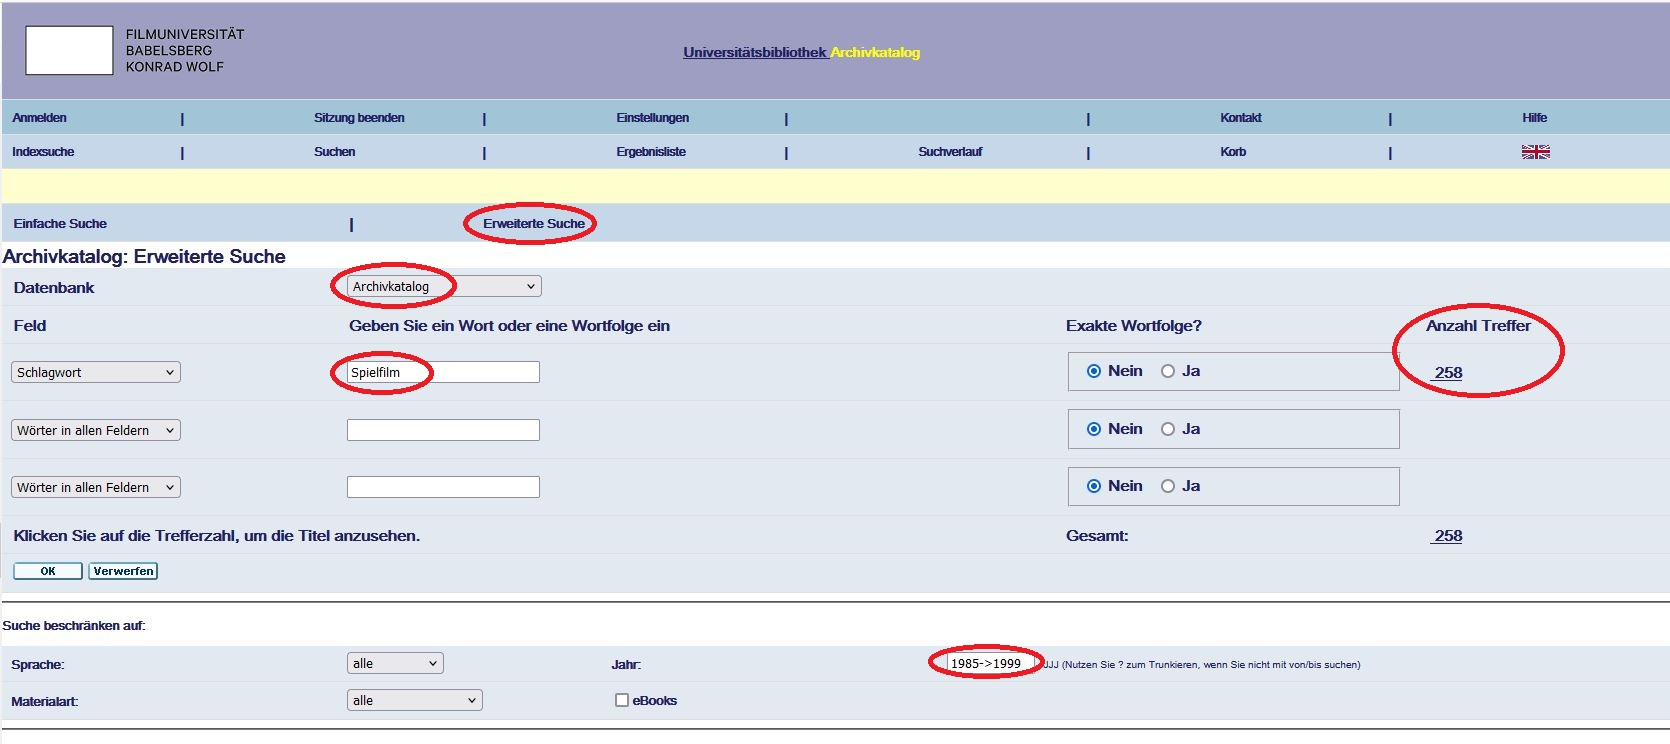
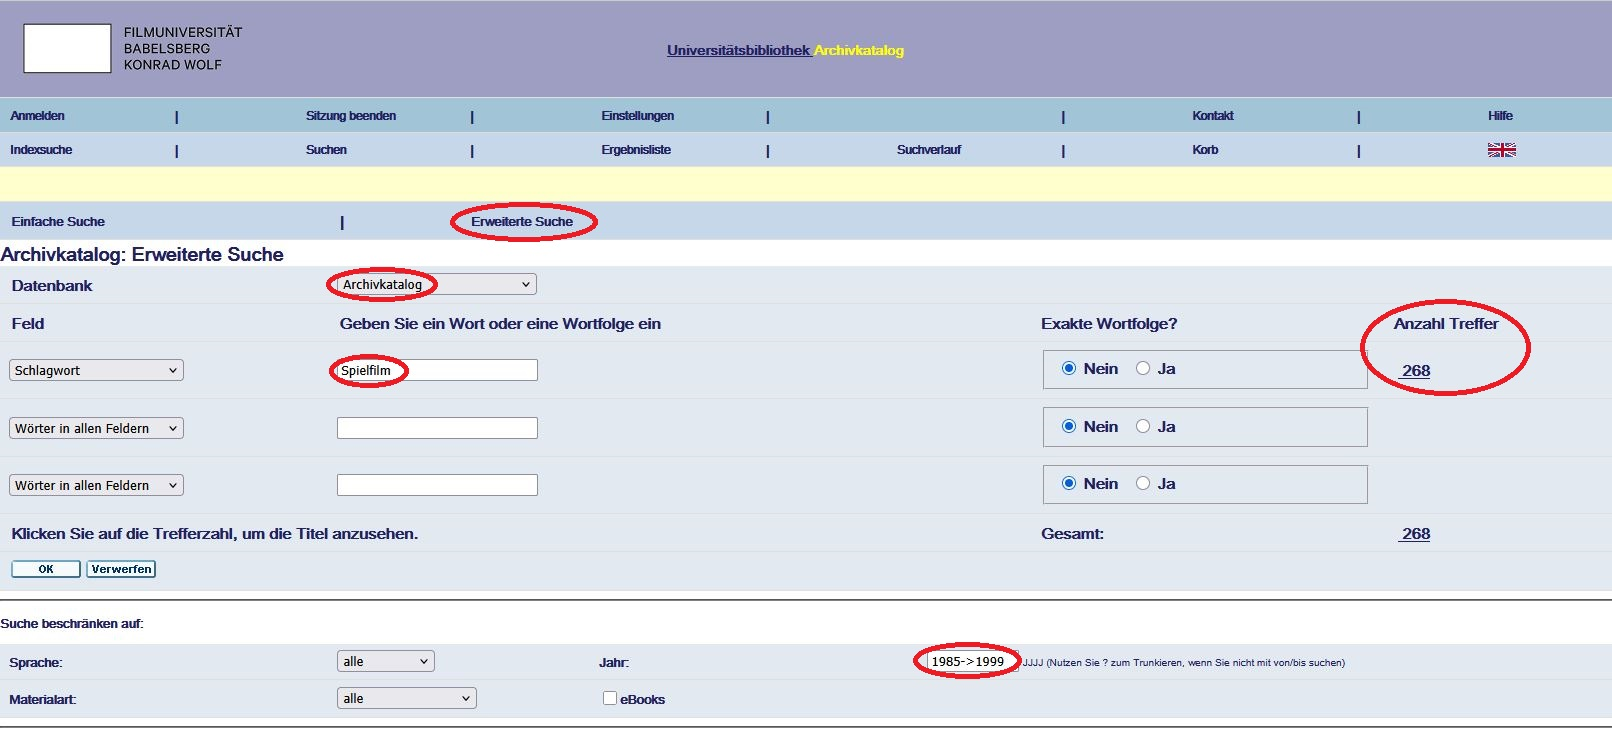
update recherche/material.md

diff --git a/recherche/material.md b/recherche/material.md
@@ -1,16 +1,18 @@
 # Materialrecherche
 Das folgende Kapitel beschäftigt sich mit der Erarbeitung und Konkretisierung der Fragestellung und mit der Materialrecherche zu unserer Fallstudie. Für Projekte in den Digital Humanities führt Johanna Drucker {cite}`a-Drucker_2021` drei Komponenten auf: Projekte beginnen mit **Materialien** (_materials_), wie z.B. Bildmaterial, Texte, Landkarten oder Mediendateien, gefolgt von der **Verarbeitung** (_processing_), etwa in Form von Data Mininig oder statistischen Analysen, und schließlich werden die Ergebnisse in Form einer **Präsentation** (_presentation_) vermittelt. Dementsprechend steht am Beginn unserer Fallstudie zunächst die Recherche und eine erste Beurteilung des vorhandenen Materials.
 
-Die Fallstudie widmet sich der filmhistorischen Fragestellung: **Welche Veränderungen sind in den studentischen Filmen der Filmuniversität Babelsberg KONRAD WOLF – bzw. der Hochschule für Film und Fernsehen (HFF) "Konrad Wolf" Potsdam, wie sie bis 2014 hieß – zur Wendezeit erkennbar?** Wir gehen davon aus, dass sich die gesellschaftlichen, politischen und ökonomischen Umwälzungen und Brüche zur Zeit der Wende und der Wiedervereinigung auch im studentischen Filmschaffen der Babelsberger Filmhochschule niederschlagen. Als Untersuchungszeitraum werden die **Jahre von 1985 bis 1999** festgesetzt. Die Festlegung des Zeitraums rund um die Wendejahre 1989/90 haben wir so gewählt, dass mögliche Veränderungen im Filmschaffen innerhalb dieser Zeitspanne erkennbar sein sollten. Historische Umbrüche finden in längeren Perioden statt und Filmprojekte benötigen häufig längere Planungs- und Umsetzungsphasen. Prozesse der Umgestaltung in der akademischen Lehre und Forschung, die sich in konkreten Filmen widerspiegeln können, benötigen Zeit, um in Gang zu kommen. Diesen Faktoren wollten wir mit dem gewählten Zeitraum Rechnung tragen.
+Die Fallstudie widmet sich der filmhistorischen Fragestellung: **Welche Veränderungen sind in den studentischen Filmen der Filmuniversität Babelsberg KONRAD WOLF – bzw. der Hochschule für Film und Fernsehen (HFF) "Konrad Wolf" Potsdam, wie sie bis 2014 hieß – zur Wendezeit erkennbar?** Wir gehen davon aus, dass sich die gesellschaftlichen, politischen und ökonomischen Umwälzungen und Brüche zur Zeit der Wende und der Wiedervereinigung auch im studentischen Filmschaffen der Babelsberger Filmhochschule niederschlagen. Dies kann sich in ganz unterschiedlichen Faktoren äußern, wie z.B. dem Auftreten neuer Themen und Motive, dem Einsatz bestimmter stilistischer Mittel oder einer veränderten Anzahl von in einem Jahr entstandenen Filmen und Filmgattungen, also Dokumentar- und Spielfilmen.
+
+Als Untersuchungszeitraum werden die **Jahre von 1985 bis 1999** festgesetzt. Die Festlegung des Zeitraums rund um die Wendejahre 1989/90 haben wir so gewählt, dass mögliche Veränderungen im Filmschaffen innerhalb dieser Zeitspanne erkennbar sein sollten. Historische Umbrüche finden in längeren Perioden statt und Filmprojekte benötigen häufig längere Planungs- und Umsetzungsphasen. Prozesse der Umgestaltung in der akademischen Lehre und Forschung, die sich in konkreten Filmen widerspiegeln können, benötigen Zeit, um in Gang zu kommen. Diesen Faktoren wollten wir mit dem gewählten Zeitraum Rechnung tragen.
 
 Im ersten Schritt ist zu recherchieren, welches Material zur Beantwortung der Fragestellung zur Verfügung steht. Es soll ein erster Überblick erarbeitet werden, welche und wie viele Filme für den Zeitraum von 1985 bis 1999 im Filmarchiv der Filmuniversität vorhanden sind. An der Filmuniversität sind die archivierten Filme nicht in einer eigenen Datenbank, sondern im Bibliothekskatalog (OPAC) der Filmuniversität verzeichnet und dort entsprechend gekennzeichnet. Ein erster Eindruck bezüglich des vorhandenen Materials kann sich somit nur durch eine Recherche im <a href="http://server8.bibl.filmuniversitaet.de/" class="external-link" target="_blank">OPAC der Universitätsbibliothek</a> ergeben. _OPAC_ steht für _Online Public Access Catalog_ und ist ein viel verwendetes elektronisches Bibliothekssystem, das Nutzer:innen ermöglicht, online auf den Katalog einer Bibliothek zuzugreifen.
 
 ## Recherche im Bibliothekskatalog
-Im folgenden Abschnitt stellen wir kurz Schritte dar, die bei der OPAC-Recherche zur Fragestellung unserer Fallstudie durchlaufen werden können. Es gibt dabei keinen allgemeingültigen Weg, vielmehr kann die Recherche auf vielfältige Weise angegangen werden und wir zeigen hier eine mögliche Herangehensweise exemplarisch auf.
+Im folgenden Abschnitt stellen wir kurz Schritte dar, die bei der OPAC-Recherche zur Fragestellung unserer Fallstudie durchlaufen werden können. Es gibt dabei keinen allgemeingültigen Weg, vielmehr kann die Recherche auf vielfältige Weise angegangen werden und wir zeigen hier eine mögliche Herangehensweise exemplarisch auf. Der Fokus liegt dabei darauf, wie sich eine solche Recherche von einer "klassischen" Literaturrecherche nach bestimmten Publikationen in einem Bibliothekskatalog unterscheidet und welche Besonderheiten in diesem Rahmen auftreten können. Auch wenn hier die Suche anhand des OPACs der Filmuniversität dargestellt wird, können einzelne Rechercheschritte auch auf andere Fragestellungen und Archivkataloge übertragen werden.
 
 Bei der Erfassung der Daten werden vom verantwortlichen Bibliothekspersonal verschiedene Informationen zu den studentischen Filmen in den OPAC eingegeben, z.B. der Filmtitel, das Entstehungsjahr, die beteiligten Personen, die Dauer in Minuten, kurze Inhaltsbeschreibungen oder Schlagworte und Stichworte zu den Filmen. Die Eingabe dieser Daten erfolgt dabei nach bestimmten Regeln in vorhandene Eingabefelder. Bei der Recherche und der Auswertung der Rechercheergebnisse ist es wichtig zu beachten, das nicht immer alle Informationen zu einem Film in den OPAC eingegeben werden müssen, also z.B. Angaben zur Gattung, Schlagwort oder Länge fehlen können. Auf den Erfassungsprozess gehen wir im Abschnitt zur [Datenquelle](/bereinigung/datenquelle) noch genauer ein. Für unsere Fragestellung kann die Suche nach mehreren dieser Informationen interessant sein, u.a. die Entstehungsjahre, Schlagworte oder Stichworte. 
 
-Wie kann im <a href="http://server8.bibl.filmuniversitaet.de/" class="external-link" target="_blank">Bibliothekskatalog der Filmuniversität</a> nun gezielt nach Filmen aus dem studentischen Filmarchiv gesucht werden? Auf der Startseite des Online-Katalogs (OPAC) wird ersichtlich, dass mehrere Datenbanken für die Suche zur Verfügung stehen, darunter auch das _Filmarchiv_ ({numref}`opac_datenbank_filmarchiv`). Standardmäßig sind alle Datenbanken aktiviert und werden bei einer Suchanfrage berücksichtigt. Indem nur die Filmarchiv-Datenbank ausgewählt wird, kann ausschließlich im Bestand des Filmarchivs der Filmuniversität gesucht werden.
+Wie kann im <a href="http://server8.bibl.filmuniversitaet.de/" class="external-link" target="_blank">Bibliothekskatalog der Filmuniversität</a> nun gezielt nach Filmen bzw. der Anzahl von Filmen oder Gattungen während eines bestimmten Zeitraums im studentischen Filmarchiv gesucht werden? Auf der Startseite des Online-Katalogs (OPAC) wird ersichtlich, dass mehrere Datenbanken für die Suche zur Verfügung stehen, darunter auch das _Filmarchiv_ ({numref}`opac_datenbank_filmarchiv`). Standardmäßig sind alle Datenbanken aktiviert und werden bei einer Suchanfrage berücksichtigt. Indem nur die Filmarchiv-Datenbank ausgewählt wird, kann ausschließlich im Bestand des Filmarchivs der Filmuniversität gesucht werden.
 
 ```{figure} ../assets/recherche/OPAC_Datenbank_Filmarchiv.jpg
 ---
@@ -69,7 +71,7 @@ alt: Darstellung einer Trefferliste nach einer Suchanfrage.
 Trefferliste
 ```
 
-Diese erste, oberflächliche Recherche hat mit 1366 Treffern gezeigt, dass im Filmarchiv für den zu untersuchenden Zeitraum genug Material an Filmen vorhanden ist, um der angedachten Fragestellung nachzugehen.
+Diese erste, oberflächliche Recherche hat mit 1366 Treffern gezeigt, dass im Filmarchiv für den zu untersuchenden Zeitraum ausreichend Material an Filmen vorhanden ist, um der angedachten Fragestellung nachzugehen. Die Anzahl der verzeichneten Filme ist groß genug, um deren [Metadaten](../recherche/metadaten.md) bzw. filmografischen Angaben sinnvoll statistisch auf der Grundlage unserer Fragestellung auswerten zu können. Einzelne Filme oder Gruppen von Filmen stehen zudem potentiell für konkrete Filmanalysen zur Verfügung, z.B. hinsichtlich des Einsatzes verschiedener stilistischer Mittel.
 
 Als nächster Schritt erfolgt eine detailliertere Abfrage des Archivbestands, um sich einen besseren Überblick zu verschaffen. Die Verfeinerung der Suche erfolgt durch die Eingabe von Worten in das mittlere Suchfeld auf der Seite für die erweiterte Suche. Als Vorgabe ist dabei die Suche nach _Wörter in allen Feldern_ eingestellt. Durch ein Dropdown-Menü ist es möglich, die Suchanfrage weiter zu spezifizieren. So kann etwa nur in den Titeln, nach Personen, nach Schlagworten oder Stichworten gesucht werden (siehe {numref}`opac_suche_in_allen_Feldern`).
 
@@ -107,7 +109,7 @@ alt: Darstellung der Anzeige Suche nach Schlagwort Dokumentarfilm/B. Anzahl der 
 Anzeige der Suche nach Schlagwort "Dokumentarfilm/B"
 ```
 
-Aus den Suchergebnissen wird ersichtlich, dass für den Untersuchungszeitraum ausreichend gattungsbezogen verschlagwortete Filme im Katalog des Archivs der Filmuniversität vorhanden sind.
+Aus den Suchergebnissen wird ersichtlich, dass für den Untersuchungszeitraum eine ausreichend große Anzahl gattungsbezogen verschlagwortete Filme im Katalog des Archivs der Filmuniversität vorhanden ist, die sowohl eine sinnvolle Auswertung der filmografischen Angaben als auch die eingehende Analyse einzelner exemplarischer Filme ermöglicht.
 
 ```{admonition} Achtung
 :class: caution
@@ -128,7 +130,7 @@ Ein mögliches Vorgehen folgt diesen Schritten:
 * Wählen Sie aus dem Dropdown-Menü "Wörter in allen Feldern" den Punkt "Schlagwort" aus
     * Geben Sie in das Suchfeld "Spielfilm" ein
 * Klicken Sie auf "OK"
-Als Ergebnis erhalten Sie "_Anzahl der Treffer: 258_".
+Als Ergebnis erhalten Sie "_Anzahl der Treffer: 268_".
 Bitte beachten Sie: Aus der _Liste aller Schlagworte alphabetisch_ (Zugang über die Startseite des Bibliothekskatalogs) ergibt sich, dass für das Schlagwort "Spielfilm" kein zusätzlicher Buchstabe vergeben wurde.
 
 ```{figure} ../assets/recherche/OPAC_erweiterte_Suche_Spielfilm.jpg
@@ -170,9 +172,9 @@ Aus der Recherche im Bibliothekskatalog hat sich ein erster grober Überblick ü
 
 ### Auswahl der Filme
 
-Im nächsten Schritt werden wir einige exemplarische Filme sichten. Ziel der Sichtung ist es, einen ersten Eindruck von deren Gestaltungsweisen, Eigenheiten und möglichen Auffälligkeiten zu erlangen und daraufhin die Fragestellung verfeinern zu können. Für die Auswahl der Filme, die vom Forschungsteam der Fallstudie gemeinsam in einem Kinoraum angesehen und diskutiert werden sollen, greifen wir wiederum auf die Recherchemöglichkeiten im Bibliothekskatalog zurück. Gemäß der angedachten Fragestellung zum studentischen Filmschaffen zur Wendezeit bietet es sich an, im Bestand nach bestimmten Wörtern oder Wortgruppen zu suchen. Im Katalog haben wir z.B. die Begriffe _Mauer_, _Wende_ und _Grenze_ abgefragt. "Wende" ist dabei als eigenes Schlagwort vorhanden, Mauer und Grenze können u.a. auch in den Stichworten, Titeln oder Beschreibungstexten gesucht werden. 
+Im nächsten Schritt werden wir einige exemplarische Filme sichten. Ziel der Sichtung ist es, einen ersten Eindruck von deren Gestaltungsweisen, Eigenheiten und möglichen Auffälligkeiten zu erlangen und daraufhin die Fragestellung verfeinern zu können. Für die Auswahl der Filme, die vom Forschungsteam der Fallstudie gemeinsam in einem Kinoraum angesehen und diskutiert werden sollen, greifen wir wiederum auf die Recherchemöglichkeiten im Bibliothekskatalog zurück. Gemäß der angedachten Fragestellung zum studentischen Filmschaffen zur Wendezeit bietet es sich an, im Bestand nach bestimmten Wörtern oder Wortgruppen zu suchen. Im Katalog haben wir z.B. die mit der Fragestellung verbundenen Begriffe _Mauer_, _Wende_ und _Grenze_ abgefragt. "Wende" ist dabei als eigenes Schlagwort vorhanden, Mauer und Grenze können u.a. auch in den Stichworten, Titeln oder Beschreibungstexten gesucht werden. Erwartungsgemäß ergab die Suche nach dem Begriff “Wende” wenig Treffer vor dem Jahr 1989.
 
-Erwartungsgemäß ergab die Suche nach dem Begriff “Wende” wenig Treffer vor dem Jahr 1989. Aus diesen Rechercheergebnissen wurden einzelne Filmtitel zur Sichtung ausgewählt. In der Stichprobe sind nun Filme enthalten, die hauptsächlich um das Jahr 1989 entstanden sind. Es wurden vier Dokumentar- und fünf Spielfilme einbezogen. 
+Aus diesen Rechercheergebnissen wurden zufällig einzelne Filmtitel zur Sichtung ausgewählt. In dieser Zusammenstellung sind nun Filme enthalten, die hauptsächlich um das Jahr 1989 entstanden sind. Es wurden vier Dokumentar- und fünf Spielfilme einbezogen. 
 
 ```{admonition} Hinweis
 :class: hinweis
@@ -181,7 +183,7 @@ Wie sich bei unserer weiteren Arbeit mit den Daten zu den studentischen Filmen z
 
 ```
 
-Aus den Gesprächen nach den gemeinsamen Filmsichtungen ergaben sich einige Auffälligkeiten und Gemeinsamkeiten der Werke. Da es sich bei den gesichteten Filmen nicht um eine repräsentative Auswahl des Bestands handelt, können aufgrund dieser Beobachtungen noch keine allgemeinen Aussagen über auftretende charakteristische Gestaltungsweisen, Themen oder Motive getroffen werden. Sie können aber dazu dienen, die Fragestellung zu konkretisieren und näher einzugrenzen. 
+Nach den gemeinsamen Filmsichtungen folgten Gespräche, in denen u.a. ein Austausch über die in den Filmen enthaltene Themen und Motive, die narrativen Strukturen der Werke und den Einsatz filmstilistischer Mittel stattfand. Aus diesen Gesprächen ergaben sich einige Auffälligkeiten und Gemeinsamkeiten der Werke. Da es sich bei den gesichteten Filmen um eine zufällige und nicht um eine repräsentative Auswahl des Bestands handelt, können aufgrund dieser Beobachtungen noch keine allgemeinen Aussagen über auftretende charakteristische Gestaltungsweisen, Themen oder Motive getroffen werden. Sie können aber dazu dienen, die Fragestellung zu konkretisieren und näher einzugrenzen. 
 
 So häufen sich in den Filmen Motive und Gestaltungsweisen, die wir unter folgenden Schlagworten zusammenfassen können:
 * Mauer
@@ -198,11 +200,11 @@ Diese Elemente wiederholen sich in den gesichteten Filmen, waren jedoch auch erw
 * Bewegung 
 * Elemente des Roadmovies
 
-Auffallend oft werden zudem dokumentarische Elemente in Spielfilmen eingesetzt; ein genauer, beobachtender Blick ist in den Filmen erkennbar. 
+Auffallend oft werden zudem dokumentarische Elemente in Spielfilmen eingesetzt; ein genauer, beobachtender Blick der Filmemacher:innen auf die dargestellten Ereignisse ist in den Werken erkennbar. 
 
 ### Mögliche Parameter für weitere Untersuchungen
 
-Aus diesen ersten Beobachtungen ergibt sich die Frage, ob und wie wir diese Motive, Themen und Gestaltungselemente genauer betrachten können. Welches Material ist für die Untersuchung notwendig? Welche digitalen Tools können eingesetzt werden? Und wie muss die Forschungsfrage für diese Untersuchung spezifiziert werden? Da mit Verfahren der Digital Humanities gearbeitet wird, muss weiterhin geklärt werden, wo und wie mit _quantitativen Auswertungen_ gearbeitet werden kann. Hierfür kommen verschiedene Parameter infrage:
+Aus diesen ersten Beobachtungen ergibt sich die Frage, ob und wie wir diese Motive, Themen und Gestaltungselemente genauer betrachten können. Welches Material ist für die Untersuchung notwendig? Welche digitalen Tools können eingesetzt werden? Und wie muss die Forschungsfrage für diese Untersuchung spezifiziert werden? Da mit Verfahren der Digital Humanities gearbeitet wird muss weiterhin geklärt werden, wo und wie mit _quantitativen Auswertungen_ gearbeitet werden kann. Hierfür kommen verschiedene Parameter infrage:
 * Anzahl der entstandenen Filme im Untersuchungszeitraum, auch aufgeschlüsselt nach Spiel-, Dokumentar- und Animationsfilmen
 * Anzahl der Filme in einem Jahr
 * Anzahl der Projektarten (Diplomfilm, Übung etc.) und deren zeitliche Verteilung
@@ -219,7 +221,7 @@ Denkbar sind aber auch Parameter, die sich eher auf die Auswertung filmischer Mi
 
 Diese Auflistung erhebt keinen Anspruch auf Vollständigkeit und kann durch zahlreiche weitere Parameter ergänzt werden. Zu klären ist, mit welchen digitalen Tools die notwendigen quantitativen Daten erhoben werden können.
 
-In den oben erwähnten ersten Beobachtungen zu den gesichteten Filmen scheint aber auch bereits auf, dass eine rein quantitative Auswertung von Daten zu den Filmen nicht ausreichen wird, um erkannte Phänomene hinreichend zu klären. So sollte neben der Ermittlung der Anzahl von Filmen, in denen Übergänge von Traum und Realität oder Rückblenden vorkommen, zusätzlich geklärt werden, ob der Einsatz dieser Mittel eine individuelle künstlerische Entscheidung war oder etwa auf die Vorgaben einer Übungsaufgabe zurückgehen. Für die Interpretation der gewählten Gestaltungsmittel muss der Kontext also berücksichtigt werden. In vielen Fällen bietet es sich daher an, **quantitative Vorgehensweisen mit qualitativen zu ergänzen und zu kombinieren** – z.B. indem gesellschaftliche, ökonomische und politische Aspekte in den Forschungsprozess einbezogen werden. Durch die Auswertung der Schlagworte, Stichworte und Beschreibungstexte zu den Filmen mit digitalen Tools können sich Informationen zu möglichen Inhalten ergeben, die zueinander in Beziehung gesetzt werden können und anhand der Sichtung einzelner Werke verifiziert werden müssen.
+In den oben erwähnten ersten Beobachtungen zu den gesichteten Filmen scheint aber auch bereits auf, dass eine rein quantitative Auswertung von Daten zu den Filmen nicht ausreichen wird, um erkannte Phänomene hinreichend zu klären. So müsste neben der Ermittlung der Anzahl von Filmen, in denen Übergänge von Traum und Realität oder Rückblenden vorkommen, zusätzlich geklärt werden, ob der Einsatz dieser Mittel eine individuelle künstlerische Entscheidung war oder etwa auf die Vorgaben einer Übungsaufgabe zurückgehen. Für die Interpretation der gewählten Gestaltungsmittel muss der Kontext also berücksichtigt werden. In vielen Fällen bietet es sich daher an, **quantitative Vorgehensweisen mit qualitativen zu ergänzen und zu kombinieren** – z.B. indem gesellschaftliche, ökonomische und politische Aspekte in den Forschungsprozess einbezogen werden. Durch die Auswertung der Schlagworte, Stichworte und Beschreibungstexte zu den Filmen mit digitalen Tools können sich Informationen zu möglichen Inhalten ergeben, die zueinander in Beziehung gesetzt werden können und anhand der Sichtung einzelner Werke verifiziert werden müssen. Aufgrund des beschränkten Umfangs dieser Fallstudie werden wir jedoch nur sehr punktuell auf diese Verbindung von quantitativen mit qualitativen Vorgehensweisen eingehen können.
 
 Ausgehend von diesen ersten Auffälligkeiten sind verschiedene Perspektiven denkbar, die den möglichen Fragestellungen zugrunde liegen können und auf die wir im Abschnitt zur [Operationalisierung der Fragestellung ](operationalisierung) noch genauer eingehen.
 
